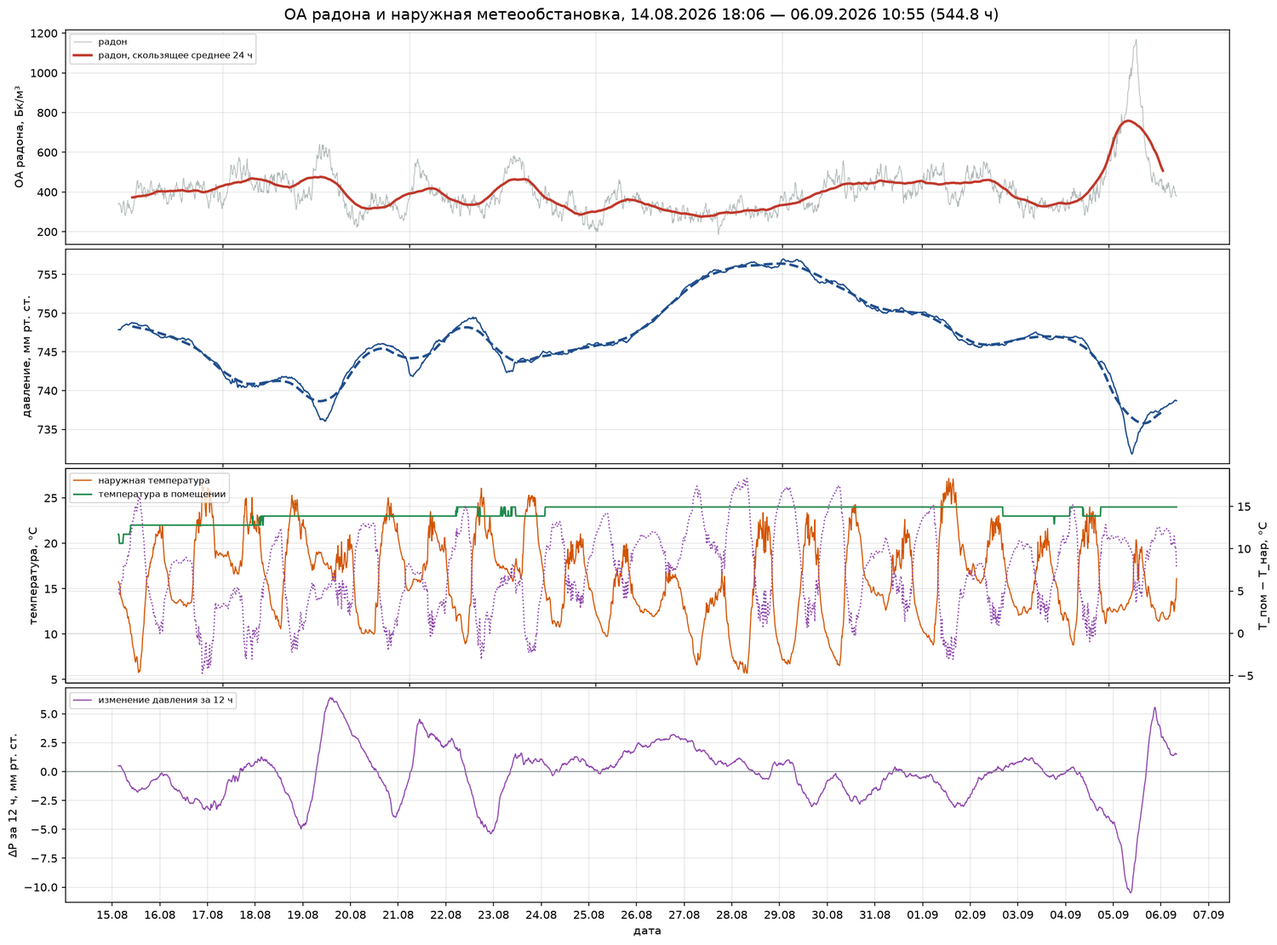
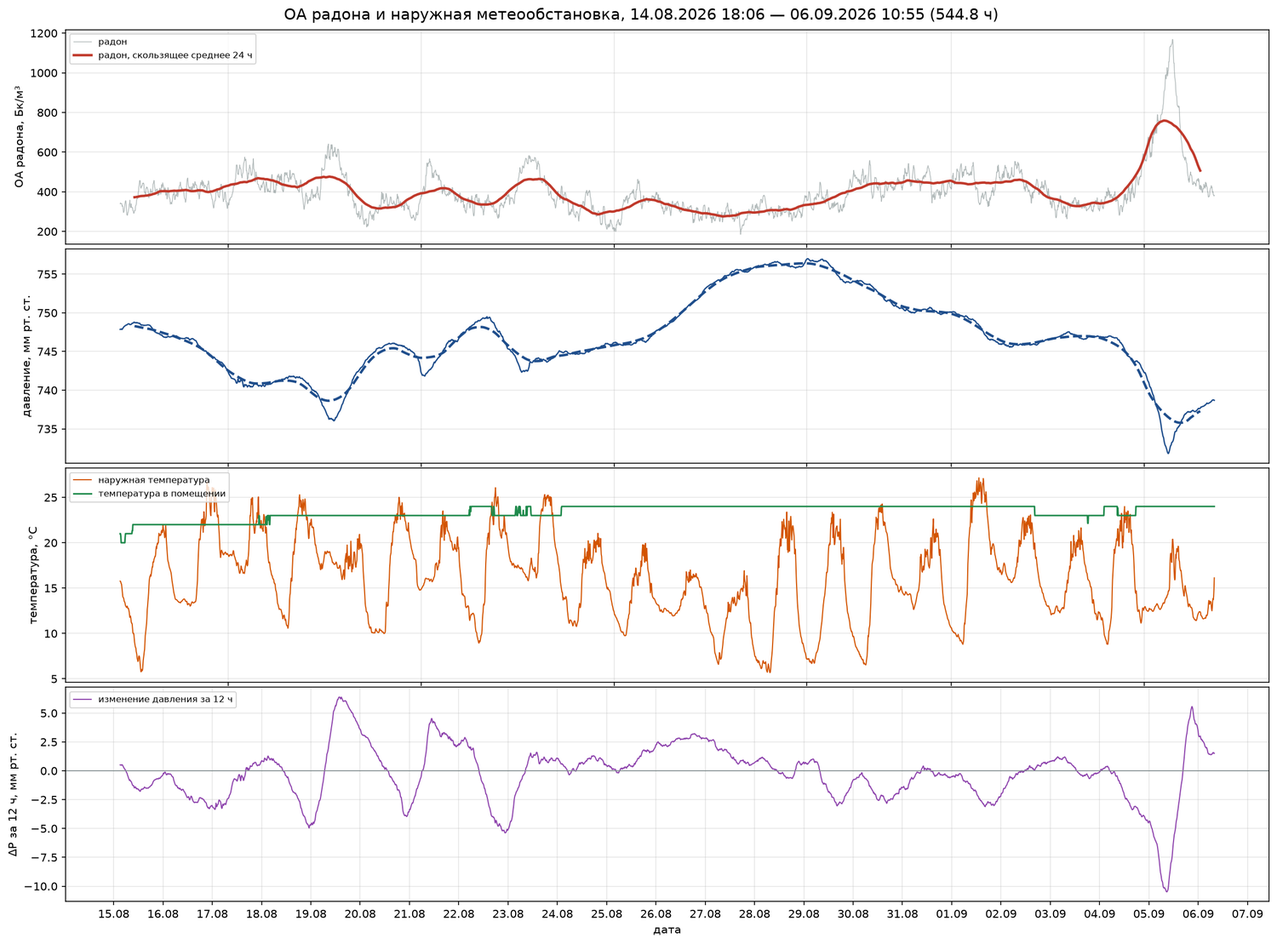
radon-meteo-scales: одно помещение вместо двух, исключены сутки вне подвала, инерция прибора
Фактическая правка по указанию владельца данных: оба прибора работали в ОДНОМ
подвале, а не в двух помещениях. Проверено данными: 12 суток совместной работы
дают отношение показаний 0,95-1,07.

- из периода Б исключены 9 суток (26.08-03.09), когда прибор выносили: их
  наличие меняло вывод о сезонной связи. После исключения связь месячных
  средних с температурой стала значимой: r=+0,69 (p=0,040), наклон
  +3,8+-1,5 Бк/м3 на градус, тёплые месяцы выше холодных на 113 (p=0,002);
- все числа периода Б пересчитаны (таблицы 2-8, 10, 11), рис. 3-4 перестроены;
- разрыв 12.07-13.08 объяснён: помещение не эксплуатировалось (отпуск);
- добавлен раздел 4.4a: собственная инерция монитора оценена по эксперименту
  с гамма-дозиметром (пик CCF при +70 мин при времени накопления ДПР порядка
  часа) - не более часа; все запаздывания объявлены верхними оценками;
- добавлена врезка о взаимной сверке приборов;
- с рис. 1 убрана линия T_пом - T_нар: при corr=-0,988 с наружной она
  дублирует её и в легенде не значилась.

diff --git a/radon-meteo-scales/index.html b/radon-meteo-scales/index.html
@@ -98,8 +98,7 @@
 
 <header>
   <h1>Радон в помещении и наружная метеообстановка: разделение отклика по масштабам времени</h1>
-  <p class="lede">Объёмная активность радона в двух помещениях сопоставлена с показаниями наружной
-  метеостанции за 23 суток и за 9 месяцев. Изменчивость радона разделена на низкочастотную и высокочастотную
+  <p class="lede">Объёмная активность радона в подвале жилого дома сопоставлена с показаниями наружной метеостанции за 23 суток и за 9 месяцев — двумя приборами, работавшими в одном и том же помещении. Изменчивость радона разделена на низкочастотную и высокочастотную
   составляющие, и связь с каждым метеофактором оценена на каждом масштабе отдельно.</p>
   <p class="meta">Опубликовано 06.09.2026 · Материал подготовлен с использованием систем
   искусственного интеллекта (см. соответствующий раздел)</p>
@@ -113,8 +112,7 @@
 зависимости для конкретного здания обычно неизвестны. Цель работы — установить, какие
 метеорологические величины связаны с изменчивостью радона и на каких масштабах времени эта связь
 проявляется, разделив внутрисуточные и синоптические процессы.</p>
-<p>Использованы непрерывные записи двух мониторов радона и наружной метеостанции: период
-продолжительностью 545 часов с шагом 10 минут и период продолжительностью 6551 час с шагом 1 час.
+<p>Использованы непрерывные записи двух мониторов радона, работавших в одном подвале, и наружной метеостанции: период продолжительностью 545 часов с шагом 10 минут и период продолжительностью 6286 часов с шагом 1 час.
 Каждый ряд разложен на низкочастотную составляющую (скользящее среднее по окну 24 часа) и высокочастотную
 (остаток). Оценивались коэффициенты корреляции Пирсона и Спирмена, значимость определялась
 перестановочным тестом с циклическим сдвигом, поскольку у сглаженных рядов оценка эффективного
@@ -125,15 +123,9 @@
 <p>Установлено, что наружная температура связана с радоном в высокочастотном диапазоне, знак связи отрицательный. Запаздывание, полученное по исходным рядам (около четырёх часов), после устранения суточной периодичности обоих рядов на коротком периоде не воспроизводится, а на длинных сокращается примерно до трёх часов, поэтому устойчивым результатом считается знак связи, а не величина запаздывания. Атмосферное
 давление действует на обоих масштабах, причём наиболее сильной и устойчивой оказывается связь не с
 уровнем давления, а с его изменением за предшествующие сутки. Скорость ветра значимой связи не
-показала. На сезонный масштаб приходится меньшая доля изменчивости, чем на синоптический, и связь
-месячных средних с температурой при девяти месяцах наблюдения статистически не подтверждается.
+показала. На сезонную составляющую приходится меньшая доля изменчивости, чем на синоптическую; связь месячных средних с наружной температурой положительна и значима (+3,8 ± 1,5 Бк/м³ на градус), однако при девяти месяцах наблюдения этот вывод следует считать пограничным. Все приведённые запаздывания являются верхними оценками: они содержат вклад собственной инерции прибора, оценённой по независимому эксперименту величиной не более часа.
 Преобладание скорости изменения давления над его уровнем согласуется с описанным в литературе представлением о диффузионном характере распространения возмущения давления в грунте, при котором разность давлений между подпольем и грунтом существует лишь в течение самого изменения; параметры грунта и расход почвенного газа в настоящей работе не измерялись, поэтому механизм проверке не подвергался. Практическое следствие для обследованных помещений состоит в том, что метеорологическим сопровождением измерений радона целесообразно считать ход давления за предшествующие сутки, а не только температуру наружного воздуха; распространение этого правила на другие объекты требует проверки.</p>
-<p>Выводы получены по двум помещениям и на общность не претендуют. Соотношение вкладов
-метеорологических факторов определяется проницаемостью подстилающего грунта, конструкцией
-подземной части здания и режимом его проветривания, поэтому приведённые коэффициенты и доли
-дисперсии следует рассматривать как характеристику обследованных помещений, а не как величины,
-переносимые на другие здания. Воспроизводимой между двумя объектами оказалась только временная
-структура отклика — знаки связей и величины запаздывания.</p>
+<p>Выводы получены в одном помещении и на общность не претендуют. Соотношение вкладов метеорологических факторов определяется проницаемостью подстилающего грунта, конструкцией подземной части здания и режимом его проветривания, поэтому приведённые коэффициенты и доли дисперсии следует рассматривать как характеристику обследованного подвала, а не как величины, переносимые на другие здания. Воспроизводимость проверена лишь в узком смысле — двумя приборами и на разных отрезках времени в одном и том же помещении.</p>
 </div>
 
 <p class="keywords"><b>Ключевые слова:</b> радон-222; объёмная активность; непрерывный мониторинг;
@@ -183,8 +175,7 @@
 
 <h2><span class="num">2</span>Исходные данные</h2>
 
-<p>Использованы четыре записи: две — ОА радона в помещениях, две — наружная метеостанция,
-расположенная в том же населённом пункте. Все ряды непрерывные, с собственными метками времени
+<p>Использованы четыре записи: две — ОА радона в одном и том же помещении (подвал жилого дома, прямой контакт с грунтом), полученные двумя разными приборами, и две — наружная метеостанция, расположенная в том же населённом пункте. Все ряды непрерывные, с собственными метками времени
 приборов.</p>
 
 <div class="tw">
@@ -193,26 +184,44 @@
 приводились ряды; продолжительность — общий перекрывающийся интервал двух рядов.</caption>
 <thead><tr><th>Обозначение</th><th>Монитор радона</th><th>Период</th><th class="n">Часов</th><th class="n">Шаг</th><th class="n">Средняя ОА, Бк/м³</th></tr></thead>
 <tbody>
-<tr><td>Период А</td><td>RadonEye, жилое помещение</td><td>14.08 – 06.09.2026</td><td class="n">545</td><td class="n">10 мин</td><td class="n">401</td></tr>
-<tr><td>Период Б</td><td>RadonEye 2+, подвал</td><td>07.12.2025 – 05.09.2026</td><td class="n">6551</td><td class="n">1 ч</td><td class="n">300</td></tr>
-<tr><td>Период Б′</td><td>то же, сокращённый</td><td>07.12.2025 – 07.07.2026</td><td class="n">5112</td><td class="n">1 ч</td><td class="n">303</td></tr>
+<tr><td>Период А</td><td>RadonEye, подвал</td><td>14.08 – 06.09.2026</td><td class="n">545</td><td class="n">10 мин</td><td class="n">401</td></tr>
+<tr><td>Период Б</td><td>RadonEye 2+, тот же подвал</td><td>07.12.2025 – 25.08.2026</td><td class="n">6286</td><td class="n">1 ч</td><td class="n">309</td></tr>
+<tr><td>Период Б′</td><td>тот же прибор, сокращённый период</td><td>07.12.2025 – 07.07.2026</td><td class="n">5112</td><td class="n">1 ч</td><td class="n">303</td></tr>
 </tbody>
 </table>
 </div>
 
-<p>Периоды А и Б относятся к разным помещениям и разным приборам, поэтому абсолютные уровни ОА
-между ними не сопоставляются; сравниваются только характер и время отклика. Период Б′ —
-сокращённый вариант периода Б, введённый для проверки устойчивости выводов.</p>
+<p>Периоды А и Б получены в одном помещении разными приборами и в разное время. Период Б′ — сокращённый вариант периода Б, введённый для проверки устойчивости выводов.</p>
 
 <div class="note">
 <h3>Две особенности исходных записей, потребовавшие вмешательства</h3>
 <p><b>Первая.</b> В длинной метеозаписи столбец наружной температуры до 06.12.2025 содержит
 показания датчика, находившегося не на улице: с 23.11 по 05.12.2025 значения лежат в интервале 23,0–25,4 °C при относительной влажности 24–32 %, а наибольший суточный размах за весь отрезок составляет 1,8 °C (для сравнения: с марта 2026 года суток с таким размахом нет вовсе). Переход к наружным условиям происходит 06.12.2025, когда суточный минимум падает с 24,4 до 1,4 °C, а на следующие сутки составляет −1,5 °C при относительной влажности 84–93 %. Все расчёты по длинным периодам начинаются
 с 07.12.2025. В том же ряду обнаружено единичное значение давления 656,52 мм рт. ст. (23.11.2025, 01:00 местного времени; в исходном файле метка соответствует 22.11.2025, 22:00 UTC), лежащее вне физически правдоподобного интервала для равнинной местности.</p>
-<p><b>Вторая.</b> В длинной записи радона после 08.07.2026 присутствуют интервалы, где прибор,
-судя по характеру данных, находился вне контролируемого помещения: ряд разорван промежутками
-до 32 суток, ОА опускается до 5–8 Бк/м³ при среднем уровне около 300 Бк/м³. Период Б′ обрезан по 08.07.2026 (последний отсчёт — 07.07.2026) и не содержит этих участков; совпадение результатов по периодам Б и Б′
-показывает, что указанные участки на выводы не повлияли.</p>
+<p><b>Вторая.</b> Прибор периода Б периодически выносился из подвала в другое помещение. Это
+известно от владельца оборудования и подтверждается данными: с 26.08 по 03.09.2026 его показания
+составляют 17–39 Бк/м³, тогда как второй прибор, остававшийся в подвале, в те же сутки
+показывает 290–450 Бк/м³. Все такие сутки (девять из 252, менее 4 % ряда) исключены — период Б
+заканчивается 25.08.2026.</p>
+<p>Кроме того, с 12.07 по 13.08.2026 запись не велась: помещение не эксплуатировалось (отпуск
+владельца). Этот промежуток — отсутствие данных, а не аномальные показания. Период Б′ обрезан
+по 08.07.2026 (последний отсчёт — 07.07.2026) и не содержит ни исключённых суток, ни этого
+разрыва; совпадение результатов по периодам Б и Б′ показывает, что выводы от них не зависят.</p>
+<p>Исключение суток, когда прибор был вне подвала, сказалось на выводах неодинаково: связи в
+высокочастотном диапазоне изменились в третьем знаке, тогда как вывод о сезонной связи изменился
+качественно (раздел 5) — выброшенные сутки приходились на конец августа и занижали месячное
+среднее самого тёплого участка ряда.</p>
+</div>
+
+<div class="note">
+<h3>Взаимная сверка приборов</h3>
+<p>С 14 по 25 августа 2026 года оба прибора работали в подвале одновременно. Их суточные средние
+за эти двенадцать суток отличаются не более чем на 7 %: отношение показаний лежит в пределах
+0,95–1,07 при уровнях 289–477 Бк/м³. Это позволяет сопоставлять периоды А и Б между собой,
+несмотря на разные приборы, и одновременно служит проверкой того, что наблюдаемые изменения
+не являются особенностью одного экземпляра.</p>
+<p>Та же пара показаний позволяет однозначно распознать сутки, когда один из приборов выносили:
+отношение возрастает до 10–26.</p>
 </div>
 
 <p>Метки времени радона и метеостанции приводились к единой шкале: записи с целочисленными
@@ -274,9 +283,9 @@
 <caption><b>Таблица 2.</b> Доля дисперсии, приходящаяся на каждую составляющую. Сумма меньше 100 % из-за ненулевой ковариации составляющих: удвоенная ковариация низкочастотной и высокочастотной составляющих даёт 15,7 % (период А) и 10,4 % (период Б) дисперсии исходного ряда. Вклад несовпадающих множеств точек не превышает 2,5 %.</caption>
 <thead><tr><th>Величина</th><th class="n">Медленная, период А</th><th class="n">Быстрая, период А</th><th class="n">Медленная, период Б</th><th class="n">Быстрая, период Б</th></tr></thead>
 <tbody>
-<tr><td>ОА радона</td><td class="n">58,1 %</td><td class="n">27,8 %</td><td class="n">77,5 %</td><td class="n">10,0 %</td></tr>
-<tr><td>Атмосферное давление</td><td class="n">91,9 %</td><td class="n">1,9 %</td><td class="n">94,0 %</td><td class="n">0,8 %</td></tr>
-<tr><td>Наружная температура</td><td class="n">24,0 %</td><td class="n">73,3 %</td><td class="n">91,3 %</td><td class="n">8,5 %</td></tr>
+<tr><td>ОА радона</td><td class="n">58,1 %</td><td class="n">27,8 %</td><td class="n">78,4 %</td><td class="n">11,5 %</td></tr>
+<tr><td>Атмосферное давление</td><td class="n">91,9 %</td><td class="n">1,9 %</td><td class="n">94,3 %</td><td class="n">0,8 %</td></tr>
+<tr><td>Наружная температура</td><td class="n">24,0 %</td><td class="n">73,3 %</td><td class="n">91,5 %</td><td class="n">8,3 %</td></tr>
 </tbody>
 </table>
 </div>
@@ -294,9 +303,9 @@
 <i>p</i> — уровень значимости по перестановочному тесту; зелёным выделены строки с <i>p</i> &lt; 0,05.</caption>
 <thead><tr><th>Фактор</th><th class="n">r, период А</th><th class="n">p, период А</th><th class="n">r, период Б</th><th class="n">p, период Б</th><th class="n">r, период Б′</th><th class="n">p, период Б′</th></tr></thead>
 <tbody>
-<tr class="sig"><td>Атмосферное давление</td><td class="n">−0,614</td><td class="n">0,013</td><td class="n">−0,200</td><td class="n">0,051</td><td class="n">−0,144</td><td class="n">0,288</td></tr>
-<tr><td>Наружная температура</td><td class="n">+0,319</td><td class="n">0,222</td><td class="n">+0,185</td><td class="n">0,304</td><td class="n">+0,272</td><td class="n">0,255</td></tr>
-<tr><td>Скорость ветра</td><td class="n">−0,259</td><td class="n">0,301</td><td class="n">−0,083</td><td class="n">0,436</td><td class="n">−0,124</td><td class="n">0,255</td></tr>
+<tr class="sig"><td>Атмосферное давление</td><td class="n">−0,614</td><td class="n">0,013</td><td class="n">−0,154</td><td class="n">0,174</td><td class="n">−0,144</td><td class="n">0,288</td></tr>
+<tr><td>Наружная температура</td><td class="n">+0,319</td><td class="n">0,222</td><td class="n">+0,290</td><td class="n">0,235</td><td class="n">+0,272</td><td class="n">0,255</td></tr>
+<tr><td>Скорость ветра</td><td class="n">−0,259</td><td class="n">0,301</td><td class="n">−0,112</td><td class="n">0,312</td><td class="n">−0,124</td><td class="n">0,255</td></tr>
 <tr><td>Температура в помещении</td><td class="n">−0,035</td><td class="n">0,979</td><td colspan="4">нет данных (формат выгрузки)</td></tr>
 </tbody>
 </table>
@@ -317,9 +326,9 @@
 Обозначения — см. таблицу 3.</caption>
 <thead><tr><th>Фактор</th><th class="n">r, период А</th><th class="n">p, период А</th><th class="n">r, период Б</th><th class="n">p, период Б</th><th class="n">r, период Б′</th><th class="n">p, период Б′</th></tr></thead>
 <tbody>
-<tr class="sig"><td>Атмосферное давление</td><td class="n">−0,499</td><td class="n">0,012</td><td class="n">−0,210</td><td class="n">0,0005</td><td class="n">−0,184</td><td class="n">0,0005</td></tr>
-<tr class="sig"><td>Наружная температура</td><td class="n">−0,166</td><td class="n">0,696</td><td class="n">−0,128</td><td class="n">0,037</td><td class="n">−0,135</td><td class="n">0,036</td></tr>
-<tr><td>Скорость ветра</td><td class="n">+0,013</td><td class="n">0,932</td><td class="n">−0,033</td><td class="n">0,211</td><td class="n">−0,045</td><td class="n">0,126</td></tr>
+<tr class="sig"><td>Атмосферное давление</td><td class="n">−0,499</td><td class="n">0,012</td><td class="n">−0,191</td><td class="n">0,0005</td><td class="n">−0,184</td><td class="n">0,0005</td></tr>
+<tr class="sig"><td>Наружная температура</td><td class="n">−0,166</td><td class="n">0,696</td><td class="n">−0,127</td><td class="n">0,048</td><td class="n">−0,135</td><td class="n">0,036</td></tr>
+<tr><td>Скорость ветра</td><td class="n">+0,013</td><td class="n">0,932</td><td class="n">−0,044</td><td class="n">0,154</td><td class="n">−0,045</td><td class="n">0,126</td></tr>
 </tbody>
 </table>
 </div>
@@ -338,14 +347,13 @@
 от фактора.</caption>
 <thead><tr><th>Пара</th><th class="n">Период А</th><th class="n">Период Б</th><th class="n">Период Б′</th></tr></thead>
 <tbody>
-<tr><td>Радон ↔ наружная температура</td><td class="n">−0,407 при +4,3 ч</td><td class="n">−0,277 при +4,0 ч</td><td class="n">−0,271 при +4,0 ч</td></tr>
-<tr><td>Радон ↔ атмосферное давление</td><td class="n">−0,617 при +2,2 ч</td><td class="n">−0,229 при +2,0 ч</td><td class="n">−0,194 при +2,0 ч</td></tr>
+<tr><td>Радон ↔ наружная температура</td><td class="n">−0,407 при +4,3 ч</td><td class="n">−0,281 при +4,0 ч</td><td class="n">−0,271 при +4,0 ч</td></tr>
+<tr><td>Радон ↔ атмосферное давление</td><td class="n">−0,617 при +2,2 ч</td><td class="n">−0,207 при +2,0 ч</td><td class="n">−0,194 при +2,0 ч</td></tr>
 </tbody>
 </table>
 </div>
 
-<p>Величины запаздывания воспроизводятся на двух разных приборах, в двух разных помещениях, на
-периодах разной продолжительности и при разном шаге сетки (10 минут и 1 час). Содержательно
+<p>Величины запаздывания воспроизводятся на двух разных приборах, на периодах разной продолжительности и при разном шаге сетки (10 минут и 1 час). Содержательно
 это означает: повышение наружной температуры сопровождается понижением ОА радона примерно через
 четыре часа, понижение давления — повышением ОА примерно через два часа.</p>
 
@@ -367,8 +375,34 @@
 температуру на коротком периоде из данных не выделяется, а на длинных соответствует
 запаздыванию около трёх часов и является слабым.</p>
 <p><b>Результат для давления.</b> Связь устойчива к этой процедуре: после вычитания суточных
-профилей экстремумы составляют −0,686, −0,251 и −0,213 по трём периодам при запаздывании +2,2, +2,0 и +1,0 часа. Вывод о давлении суточным циклом не объясняется.</p>
+профилей экстремумы составляют −0,686, −0,251 и −0,213 по трём периодам при запаздывании
++2,2, +2,0 и +1,0 часа. Вывод о давлении суточным циклом не объясняется.</p>
 </div>
+
+<h3>4.4a. Вклад собственной инерции прибора</h3>
+
+<p>Измеренное запаздывание включает не только время отклика помещения, но и инерцию самого
+монитора радона: прибор усредняет показания за некоторый интервал, и его выходной ряд сдвинут
+относительно действительной ОА. Приборной документацией эта величина не нормируется, поэтому она
+оценена по независимому эксперименту, выполненному ранее в том же подвале.</p>
+
+<p>В том эксперименте одновременно записывались ОА радона тем же типом монитора и скорость счёта
+энергокомпенсированного гамма-дозиметра, реагирующего на дочерние продукты радона. Дочерние
+продукты накапливаются с задержкой относительно радона, определяемой периодами полураспада
+<sup>214</sup>Pb (26,8 мин) и <sup>214</sup>Bi (19,9 мин), то есть характерное время накопления
+составляет порядка часа. Взаимная корреляционная функция этих двух рядов достигает максимума при
+запаздывании гамма-отклика на <b>70 минут</b> (<i>r</i> = 0,85, 260 совместных точек с шагом
+10 минут).</p>
+
+<p>Наблюдаемые 70 минут не превышают ожидаемого времени накопления дочерних продуктов. Если бы
+монитор радона обладал значительной собственной инерцией, его показания были бы уже сдвинуты
+вперёд, и измеренное запаздывание гамма-отклика оказалось бы заметно меньше часа. Отсюда оценка:
+собственная инерция монитора не превышает примерно часа, и приведённые в таблице 5 запаздывания
+(1–2 часа для давления, 3–4 часа для температуры) содержат приборный вклад того же порядка, что
+и физический. Это означает, что <b>истинные времена отклика помещения меньше измеренных</b>, а
+приводимые величины следует понимать как верхние оценки. Разделить приборную и физическую
+составляющие по имеющимся данным нельзя: для этого нужен эксперимент со скачкообразным
+изменением ОА при известном её действительном ходе.</p>
 
 <figure>
   <img src="figures/fig2.png" alt="Четыре панели: низкочастотные составляющие в нормированном виде, взаимная корреляционная функция низкочастотного диапазона, средний суточный ход, взаимная корреляционная функция высокочастотного диапазона">
@@ -387,8 +421,8 @@
 времени и размах (разность максимума и минимума осреднённого профиля).</caption>
 <thead><tr><th>Величина</th><th class="n">Максимум, период А</th><th class="n">Размах, период А</th><th class="n">Максимум, период Б</th><th class="n">Размах, период Б</th></tr></thead>
 <tbody>
-<tr><td>ОА радона</td><td class="n">10 ч</td><td class="n">77 Бк/м³</td><td class="n">7 ч</td><td class="n">32 Бк/м³</td></tr>
-<tr><td>Наружная температура</td><td class="n">14 ч</td><td class="n">9,9 °C</td><td class="n">14 ч</td><td class="n">7,8 °C</td></tr>
+<tr><td>ОА радона</td><td class="n">10 ч</td><td class="n">77 Бк/м³</td><td class="n">7 ч</td><td class="n">32,8 Бк/м³</td></tr>
+<tr><td>Наружная температура</td><td class="n">14 ч</td><td class="n">9,9 °C</td><td class="n">14 ч</td><td class="n">7,6 °C</td></tr>
 <tr><td>Атмосферное давление</td><td class="n">20 ч</td><td class="n">0,3 мм рт. ст.</td><td class="n">10 ч</td><td class="n">0,3 мм рт. ст.</td></tr>
 </tbody>
 </table>
@@ -407,9 +441,9 @@
 <caption><b>Таблица 7.</b> Связь ОА радона (исходный ряд, без разделения на составляющие) с изменением атмосферного давления за предшествующий интервал. Отрицательный знак означает: давление падает — ОА радона растёт. В отличие от таблиц 3 и 4, здесь <i>p</i> получено поправкой на эффективный объём выборки; перестановочные значения приведены в тексте под таблицей.</caption>
 <thead><tr><th>Интервал</th><th class="n">r, период А</th><th class="n">p, период А</th><th class="n">r, период Б</th><th class="n">p, период Б</th><th class="n">r, период Б′</th><th class="n">p, период Б′</th></tr></thead>
 <tbody>
-<tr><td>3 часа</td><td class="n">−0,233</td><td class="n">0,351</td><td class="n">−0,186</td><td class="n">0,013</td><td class="n">−0,198</td><td class="n">0,012</td></tr>
-<tr class="sig"><td>12 часов</td><td class="n">−0,640</td><td class="n">0,020</td><td class="n">−0,311</td><td class="n">0,005</td><td class="n">−0,312</td><td class="n">0,005</td></tr>
-<tr class="sig"><td>24 часа</td><td class="n">−0,775</td><td class="n">0,004</td><td class="n">−0,357</td><td class="n">0,003</td><td class="n">−0,362</td><td class="n">0,002</td></tr>
+<tr><td>3 часа</td><td class="n">−0,233</td><td class="n">0,351</td><td class="n">−0,201</td><td class="n">0,007</td><td class="n">−0,198</td><td class="n">0,012</td></tr>
+<tr class="sig"><td>12 часов</td><td class="n">−0,640</td><td class="n">0,020</td><td class="n">−0,321</td><td class="n">0,003</td><td class="n">−0,312</td><td class="n">0,005</td></tr>
+<tr class="sig"><td>24 часа</td><td class="n">−0,775</td><td class="n">0,004</td><td class="n">−0,368</td><td class="n">0,001</td><td class="n">−0,362</td><td class="n">0,002</td></tr>
 </tbody>
 </table>
 </div>
@@ -432,9 +466,9 @@
 <thead><tr><th>Модель</th><th class="n">R²</th><th>Коэффициенты (β; p)</th></tr></thead>
 <tbody>
 <tr><td>Период А, исходный ряд</td><td class="n">0,577</td><td>ΔP₁₂ −0,552 (&lt;0,0001) · давление −0,430 (&lt;0,0001) · наружная температура −0,179 (0,003)</td></tr>
-<tr><td>Период Б, исходный ряд</td><td class="n">0,138</td><td>ΔP₁₂ −0,277 (&lt;0,0001) · давление −0,151 (0,002) · наружная температура +0,116 (0,042)</td></tr>
+<tr><td>Период Б, исходный ряд</td><td class="n">0,160</td><td>ΔP₁₂ −0,294 (&lt;0,0001) · наружная температура +0,209 (0,0003) · давление −0,087 (0,064)</td></tr>
 <tr><td>Период А, высокочастотный диапазон</td><td class="n">0,285</td><td>давление −0,503 (0,0001) · наружная температура −0,200 (0,003) · ветер +0,063 (0,056)</td></tr>
-<tr><td>Период Б, высокочастотный диапазон</td><td class="n">0,066</td><td>давление −0,224 (&lt;0,0001) · наружная температура −0,151 (&lt;0,0001) · ветер +0,008 (0,670)</td></tr>
+<tr><td>Период Б, высокочастотный диапазон</td><td class="n">0,057</td><td>давление −0,205 (&lt;0,0001) · наружная температура −0,143 (&lt;0,0001) · ветер −0,004 (0,822)</td></tr>
 <tr><td>Период А, низкочастотный диапазон</td><td class="n">0,428</td><td>давление −0,694 (0,025) · ветер −0,257 (0,054) · наружная температура −0,203 (0,459)</td></tr>
 </tbody>
 </table>
@@ -476,20 +510,16 @@
 подвал). Получено сопоставлением двух разложений — с окном 24 часа и с окном 30 суток.</caption>
 <thead><tr><th>Масштаб</th><th class="n">Доля дисперсии</th></tr></thead>
 <tbody>
-<tr><td>Сезонный (периоды длиннее 30 суток)</td><td class="n">13 %</td></tr>
-<tr><td>Синоптический (от суток до 30 суток)</td><td class="n">≈64 %</td></tr>
-<tr><td>Внутрисуточный</td><td class="n">10 %</td></tr>
+<tr><td>Сезонный (периоды длиннее 30 суток)</td><td class="n">16 %</td></tr> <tr><td>Синоптический (от суток до 30 суток)</td><td class="n">≈62 %</td></tr> <tr><td>Внутрисуточный</td><td class="n">12 %</td></tr>
 </tbody>
 </table>
 </div>
 
-<p>Сезонная составляющая в этом подвале оказалась наименьшей из трёх: смена погоды в пределах
-нескольких суток изменяет ОА радона сильнее, чем смена времени года.</p>
+<p>Наибольшая доля изменчивости приходится на синоптический масштаб: смена погоды в пределах нескольких суток изменяет ОА радона сильнее, чем смена времени года. Сезонная и внутрисуточная составляющие сопоставимы между собой.</p>
 
 <div class="tw">
 <table>
-<caption><b>Таблица 11.</b> Средние по месяцам за период Б. Учтены месяцы, обеспеченные более чем
-200 часами данных; июль и август обеспечены хуже прочих (279 и 387 часов).</caption>
+<caption><b>Таблица 11.</b> Средние по месяцам за период Б. Учтены месяцы, обеспеченные более чем 200 часами данных; июль и август обеспечены хуже прочих (279 и 241 час) — в июле прибор часть времени не писал, август учтён по 25-е число.</caption>
 <thead><tr><th>Месяц</th><th class="n">ОА радона, Бк/м³</th><th class="n">Наружная температура, °C</th><th class="n">Часов данных</th></tr></thead>
 <tbody>
 <tr><td>Декабрь 2025</td><td class="n">276</td><td class="n">−3,8</td><td class="n">601</td></tr>
@@ -499,31 +529,18 @@
 <tr><td>Апрель 2026</td><td class="n">249</td><td class="n">+4,7</td><td class="n">705</td></tr>
 <tr><td>Май 2026</td><td class="n">388</td><td class="n">+15,4</td><td class="n">744</td></tr>
 <tr><td>Июнь 2026</td><td class="n">352</td><td class="n">+18,1</td><td class="n">676</td></tr>
-<tr><td>Июль 2026</td><td class="n">408</td><td class="n">+19,9</td><td class="n">279</td></tr>
-<tr><td>Август 2026</td><td class="n">252</td><td class="n">+15,9</td><td class="n">387</td></tr>
+<tr><td>Июль 2026</td><td class="n">408</td><td class="n">+19,9</td><td class="n">279</td></tr> <tr><td>Август 2026 (по 25-е)</td><td class="n">386</td><td class="n">+17,1</td><td class="n">241</td></tr>
 </tbody>
 </table>
 </div>
 
-<p>Связь месячных средних ОА радона с месячной наружной температурой положительная, но
-статистически не подтверждается: <i>r</i> = +0,49 при <i>p</i> = 0,18 (девять месяцев),
-коэффициент линейной регрессии <b>+2,7 ± 1,8 Бк/м³ на градус</b>. Средняя ОА тёплых месяцев
-(наружная температура выше +5 °C) превышает среднюю ОА холодных на 80 Бк/м³ — 350 против 270, —
-однако различие также не значимо (<i>p</i> = 0,10). Исключение месяцев, затронутых переносами
-прибора, картину не меняет: <i>r</i> = +0,51, коэффициент регрессии тот же.</p>
+<p>Связь месячных средних ОА радона с месячной наружной температурой положительная и статистически значимая: <i>r</i> = +0,69 при <i>p</i> = 0,040 (девять месяцев), коэффициент линейной регрессии <b>+3,8 ± 1,5 Бк/м³ на градус</b> (<i>p</i> = 0,040). Средняя ОА тёплых месяцев (наружная температура выше +5 °C) превышает среднюю ОА холодных на 113 Бк/м³ — 384 против 270 (<i>p</i> = 0,002).</p>
 
-<p>Направление связи заслуживает отдельного упоминания. Для жилых этажей обычно ожидается
-зимний максимум, обусловленный тягой при большой разности температур. Здесь наблюдается обратное:
-более тёплым месяцам соответствует более высокая ОА. Для подвала это объяснимо режимом
-проветривания, который летом и зимой различается, однако режим эксплуатации в течение периода
-наблюдения не документировался, и отделить температурный механизм от режимного по имеющимся
-данным нельзя. Февральское значение (233 Бк/м³ при −10,5 °C) прямо нарушает монотонность,
-что подтверждает: сезонный сигнал в этом помещении слабее наложенной на него синоптической
-изменчивости.</p>
+<p>Этот результат появился только после исключения суток, в течение которых прибор находился вне подвала (см. раздел 2): при их учёте август занижался до 252 Бк/м³ вместо 386, и связь не достигала значимости (<i>r</i> = +0,49 при <i>p</i> = 0,18). Случай показателен: девять суток из 252 — менее четырёх процентов ряда — меняли вывод о наличии сезонной связи на противоположный.</p>
 
-<p>Девять месяцев наблюдения дают порядка девяти независимых значений, полного годового цикла
-ряд не содержит, поэтому амплитуда сезонной волны по этим данным не определяется. Приведённые
-величины следует рассматривать как оценку порядка, а не как измеренный сезонный ход.</p>
+<p>Направление связи заслуживает отдельного упоминания. Для жилых этажей обычно ожидается зимний максимум, обусловленный тягой при большой разности температур. Здесь наблюдается обратное: более тёплым месяцам соответствует более высокая ОА. Для подвала это объяснимо: зимой разность температур велика, тяга выносит воздух из подвала наружу и замещает его наружным, летом же этот механизм ослабевает. Свой вклад может вносить и сезонное изменение режима проветривания, который не документировался, поэтому отделить температурный механизм от режимного по имеющимся данным нельзя. Февральское значение (233 Бк/м³ при −10,5 °C) нарушает монотонность, показывая, что сезонная составляющая накладывается на более сильную синоптическую.</p>
+
+<p>Девять месяцев наблюдения дают порядка девяти независимых значений, полного годового цикла ряд не содержит, поэтому амплитуда сезонной волны по этим данным не определяется, а уровень значимости <i>p</i> = 0,04 при девяти точках следует считать пограничным. Приведённые величины — оценка порядка, а не измеренный сезонный ход.</p>
 
 <h2><span class="num">6</span>Механизм: грунт как среда с запаздыванием</h2>
 
@@ -708,29 +725,17 @@
 <li><b>Малое число независимых наблюдений в низкочастотном диапазоне.</b> За 23 суток укладывается
 около двадцати независимых суточных интервалов; выводы по низкочастотному диапазону периода А имеют
 низкую разрешающую способность, что и проявилось в их неустойчивости между периодами.</li>
-<li><b>Разные помещения и приборы.</b> Периоды А и Б получены разными мониторами в разных
-помещениях; совпадение величин запаздывания между ними усиливает вывод, но абсолютные уровни ОА
-несопоставимы.</li>
+<li><b>Одно помещение.</b> Оба периода получены в одном и том же подвале двумя разными приборами. Совпадение их показаний при одновременной работе (раздел 2) делает уровни сопоставимыми, но исключает проверку выводов на другом здании: воспроизводимость установлена только между приборами и отрезками времени, не между объектами.</li>
 <li><b>Разность температур помещение — улица не информативна на периоде А.</b> Температура в
 помещении записывается целыми градусами и почти постоянна (20–24 °C), из-за чего эта разность
 связана с наружной температурой коэффициентом −1,00 и самостоятельного вклада не несёт.
 В длинных периодах температура в помещении не записывается вовсе.</li>
-<li><b>Режим эксплуатации помещений не документировался.</b> Проветривание и работа вентиляции
-в рассматриваемые периоды не фиксировались, поэтому часть изменчивости, отнесённой к остаточной,
-может иметь эксплуатационное происхождение.</li>
+<li><b>Режим эксплуатации помещения не документировался.</b> Проветривание и работа вентиляции в рассматриваемые периоды не фиксировались, поэтому часть изменчивости, отнесённой к остаточной, может иметь эксплуатационное происхождение. Известно лишь, что с 12.07 по 13.08.2026 помещение не эксплуатировалось и запись не велась.</li>
+<li><b>Инерция прибора учтена только оценкой.</b> Собственное время отклика монитора радона не измерялось прямо; его верхняя граница (около часа) получена косвенно, по сопоставлению с гамма-откликом дочерних продуктов в отдельном эксперименте. Поэтому запаздывания в таблице 5 разделить на приборную и физическую составляющие нельзя, и они приводятся как верхние оценки.</li>
 <li><b>Установлены корреляции, а не причинные связи.</b> Направление во времени (радон отстаёт
 от метеофакторов, а не предшествует им) согласуется с причинным истолкованием, однако
 эксперимент с управляемым воздействием не ставился.</li>
-<li><b>Обследованы два помещения, и результат может отражать их особенности.</b> Величина отклика
-на метеорологические факторы определяется проницаемостью и влажностью подстилающего грунта,
-глубиной залегания водоупора, конструкцией и герметичностью подземной части здания, режимом
-проветривания. Ни одна из этих характеристик для обследованных помещений не измерялась. Поэтому
-численные значения коэффициентов, доли дисперсии по масштабам и соотношение вкладов давления и
-температуры на другие здания не переносятся: в помещении с иной проницаемостью основания
-соотношение вкладов может оказаться другим, вплоть до смены преобладающего фактора. Из
-приведённого материала на общность претендует не величина связей, а способ их разделения по
-масштабам и обнаруженная временная структура отклика (знаки и запаздывания), совпавшая у двух
-разных приборов в двух разных помещениях.</li>
+<li><b>Обследовано одно помещение, и результат может отражать его особенности.</b> Величина отклика на метеорологические факторы определяется проницаемостью и влажностью подстилающего грунта, глубиной залегания водоупора, конструкцией и герметичностью подземной части здания, режимом проветривания. Ни одна из этих характеристик не измерялась. Поэтому численные значения коэффициентов, доли дисперсии по масштабам и соотношение вкладов давления и температуры на другие здания не переносятся: в помещении с иной проницаемостью основания соотношение вкладов может оказаться другим, вплоть до смены преобладающего фактора. Из приведённого материала на общность претендует не величина связей, а способ их разделения по масштабам.</li>
 <li><b>Сопоставление с нормативами не проводилось.</b> Гигиенические нормативы установлены на
 эквивалентную равновесную объёмную активность как среднегодовую величину [1], тогда как здесь
 рассматривается ОА радона с временным разрешением от 10 минут до 1 часа; прямое сравнение
@@ -755,18 +760,14 @@
 <li>Исходное предположение подтверждается частично. Утверждение о температуре как источнике
 коротких изменений подтверждается. Утверждение о давлении как источнике низкочастотных изменений в исходной формулировке не подтверждается: давление действует и на коротком масштабе, а
 определяющей величиной является скорость его изменения.</li>
-<li>На сезонную составляющую (периоды длиннее 30 суток) приходится 13 % дисперсии ОА радона в подвале —
-меньше, чем на синоптический (≈64 %). Связь месячных средних с месячной наружной температурой
-положительная (+2,7 ± 1,8 Бк/м³ на градус), но статистически не подтверждается при девяти
-месяцах наблюдения; отделить температурный механизм от сезонного изменения режима проветривания
-по имеющимся данным нельзя.</li>
+<li>На сезонную составляющую (периоды длиннее 30 суток) приходится 16 % дисперсии ОА радона — меньше, чем на синоптическую (≈62 %). Связь месячных средних с месячной наружной температурой положительна и значима: +3,8 ± 1,5 Бк/м³ на градус при <i>r</i> = +0,69 и <i>p</i> = 0,040; тёплые месяцы превышают холодные на 113 Бк/м³ (<i>p</i> = 0,002). При девяти независимых точках вывод пограничен, а отделить температурный механизм от сезонного изменения режима проветривания по имеющимся данным нельзя. Результат получен только после исключения суток, когда прибор находился вне подвала: при их учёте связь не достигала значимости.</li>
 <li>Наблюдаемое преобладание скорости изменения давления над его уровнем согласуется с описанным
 в литературе механизмом: возмущение давления распространяется в грунте по закону диффузии, из-за
 чего перепад между подпольем и грунтом существует лишь пока давление меняется. Формально поток
 определяется свёрткой отклика на единичный скачок с производной давления по времени.</li>
-<li>Практическое следствие для обследованных помещений: метеорологическим сопровождением измерений радона целесообразно считать прежде всего ход атмосферного давления за предшествующие сутки; для других зданий это требует отдельной проверки. Измерение, выполненное в период глубокого падения давления, систематически завышает результат относительно спокойных условий. На периоде Б в часы, когда давление падало не менее чем на 8 мм рт. ст. за предшествующие 12 часов (56 часов, или 2,3 суток суммарно), средняя ОА составила 495 Бк/м³ против 298 Бк/м³ в остальное время — превышение в 1,66 раза. При смягчении порога до 5 мм рт. ст. превышение составляет 1,48 раза, при ужесточении до 10 мм рт. ст. — 1,83 раза. Отдельный эпизод 05.09.2026 на периоде А (рост с 400 до 1170 Бк/м³) представляет собой максимальное наблюдавшееся отклонение, а не типичное.</li>
-<li>Все перечисленные выводы относятся к двум обследованным помещениям и на общность не
-претендуют. Численные значения связей могут отражать особенности конкретного основания и
+<li>Все приведённые величины запаздывания — верхние оценки: они включают собственную инерцию монитора радона, которая по независимому эксперименту не превышает примерно часа (раздел 4.4a). Истинные времена отклика помещения меньше измеренных, и разделить эти два вклада по имеющимся данным нельзя.</li>
+<li>Практическое следствие для обследованного подвала: метеорологическим сопровождением измерений радона целесообразно считать прежде всего ход атмосферного давления за предшествующие сутки; для других зданий это требует отдельной проверки. Измерение, выполненное в период глубокого падения давления, систематически завышает результат относительно спокойных условий. На периоде Б в часы, когда давление падало не менее чем на 8 мм рт. ст. за предшествующие 12 часов (56 часов, или 2,3 суток суммарно), средняя ОА составила 495 Бк/м³ против 298 Бк/м³ в остальное время — превышение в 1,66 раза. При смягчении порога до 5 мм рт. ст. превышение составляет 1,48 раза, при ужесточении до 10 мм рт. ст. — 1,83 раза. Отдельный эпизод 05.09.2026 на периоде А (рост с 400 до 1170 Бк/м³) представляет собой максимальное наблюдавшееся отклонение, а не типичное.</li>
+<li>Все перечисленные выводы относятся к одному обследованному подвалу и на общность не претендуют. Численные значения связей могут отражать особенности конкретного основания и
 конструкции здания; для переноса на другие объекты требуется независимое воспроизведение.</li>
 </ol>
 
